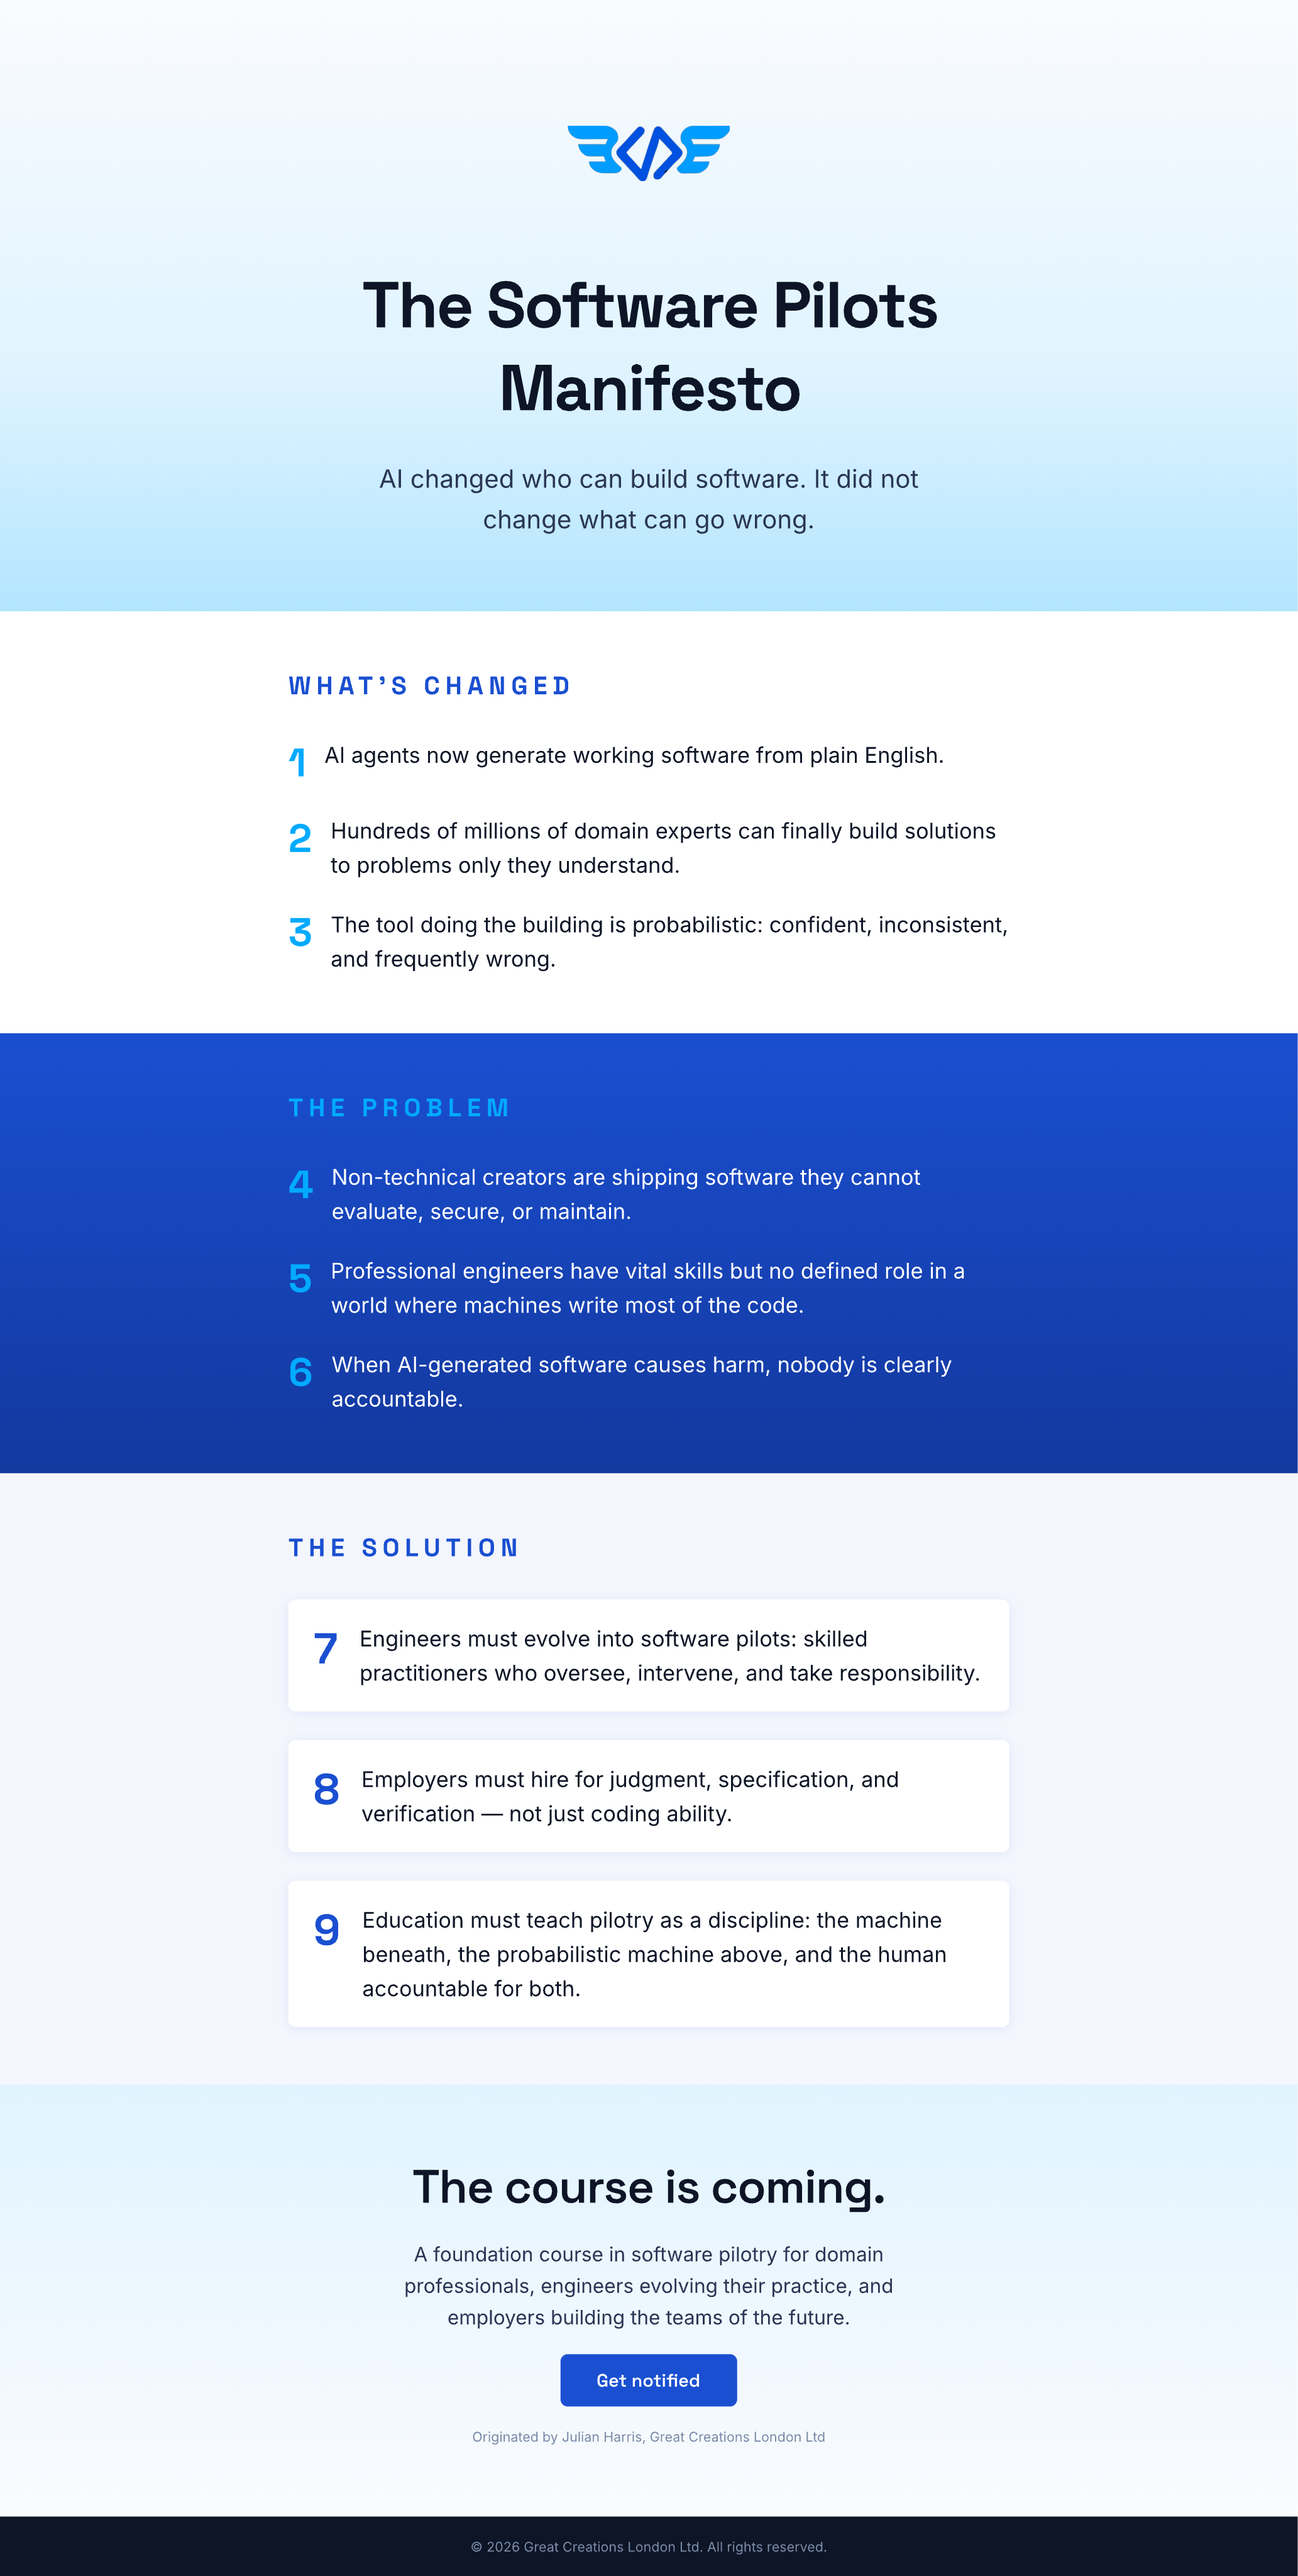
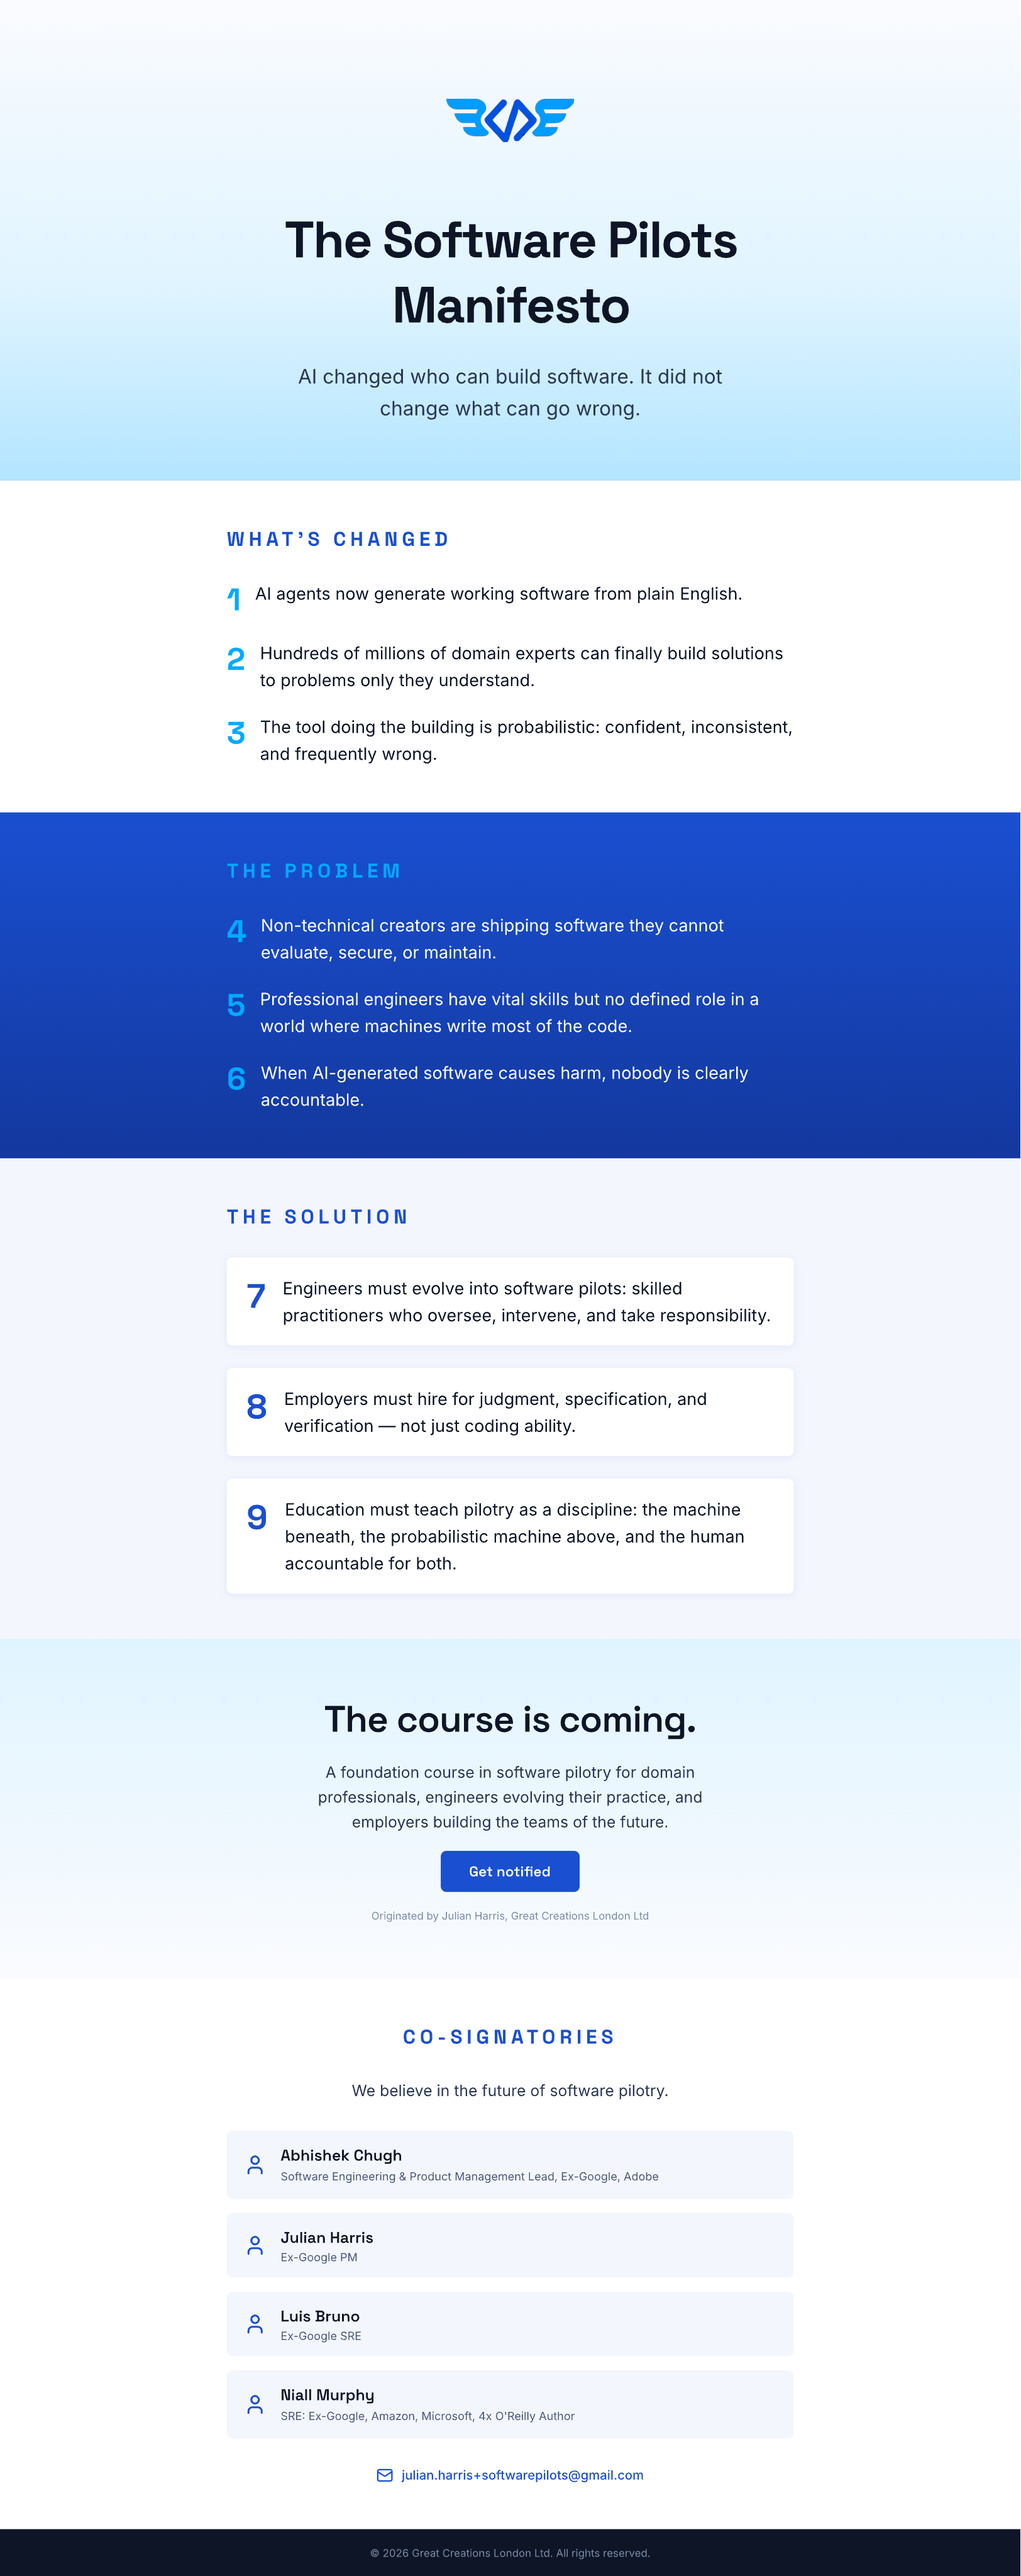
Add co-signatories section, simplify page chrome
- Add co-signatories section with four founding signatories
- Normalize all section numbering to 1-2-3
- Wire Get Notified button to mailto
- Remove footer and origin attribution
- Simplify page title to "Software Pilots"

diff --git a/src/index.html b/src/index.html
@@ -3,9 +3,9 @@
 <head>
   <meta charset="UTF-8">
   <meta name="viewport" content="width=device-width, initial-scale=1.0">
-  <title>Software Pilots — The Manifesto</title>
+  <title>Software Pilots</title>
   <meta name="description" content="Engineers must evolve into software pilots: skilled practitioners who oversee, intervene, and take responsibility for software built by AI agents.">
-  <meta property="og:title" content="Software Pilots — The Manifesto">
+  <meta property="og:title" content="Software Pilots">
   <meta property="og:description" content="AI agents now generate working software from plain English. The question is: who takes responsibility?">
   <meta property="og:type" content="website">
   <meta property="og:image" content="/logo-blue-circle.png">
@@ -44,7 +44,7 @@
       <section class="manifesto-section manifesto-section--brand" id="problem">
         <div class="container">
           <div class="section-label section-label--on-brand">The Problem</div>
-          <ol class="manifesto-points manifesto-points--on-brand" start="4">
+          <ol class="manifesto-points manifesto-points--on-brand">
             <li>People are shipping software they cannot evaluate, secure, or maintain.</li>
             <li>Engineers of all levels have vital skills, but no defined role in a world where machines write most of the code.</li>
             <li>When AI-generated software causes harm, nobody is clearly accountable.</li>
@@ -58,18 +58,45 @@
           <div class="section-label">The Solution</div>
           <div class="solution-cards">
             <div class="solution-card">
-              <span class="solution-num">7</span>
+              <span class="solution-num">1</span>
               <p>Engineers must evolve into <strong>software pilots</strong>: skilled practitioners who oversee, intervene, and take responsibility.</p>
             </div>
             <div class="solution-card">
-              <span class="solution-num">8</span>
+              <span class="solution-num">2</span>
               <p>Employers must hire for good judgment, producing specifications, and ensuring verification: not just coding ability.</p>
             </div>
             <div class="solution-card">
-              <span class="solution-num">9</span>
+              <span class="solution-num">3</span>
               <p>Education must teach pilotry as a discipline: the machine beneath, the probabilistic machine above, and the human accountable for both.</p>
             </div>
           </div>
+        </div>
+      </section>
+
+      <!-- Co-Signatories -->
+      <section class="signatories-section">
+        <div class="container">
+          <div class="section-label" style="text-align:center">Co-Signatories</div>
+          <p class="signatories-intro">We believe in the future of software pilotry.</p>
+          <div class="signatories-list">
+            <div class="signatory-card">
+              <span class="signatory-name">Abhishek Chugh</span>
+              <span class="signatory-role">Software Engineering & Product Management Lead, Ex-Google, Adobe</span>
+            </div>
+            <div class="signatory-card">
+              <span class="signatory-name">Julian Harris</span>
+              <span class="signatory-role">Ex-Google PM</span>
+            </div>
+            <div class="signatory-card">
+              <span class="signatory-name">Luis Bruno</span>
+              <span class="signatory-role">Ex-Google SRE</span>
+            </div>
+            <div class="signatory-card">
+              <span class="signatory-name">Niall Murphy</span>
+              <span class="signatory-role">SRE: Ex-Google, Amazon, Microsoft, 4x O'Reilly Author</span>
+            </div>
+          </div>
+
         </div>
       </section>
 
@@ -78,17 +105,10 @@
         <div class="container">
           <h2 class="cta-title">The course is coming.</h2>
           <p class="cta-text">A foundation course in software pilotry for domain professionals, engineers evolving their practice, and employers building the teams of the future.</p>
-          <a href="#notify" class="btn-brand cta-button">Get notified</a>
-          <p class="cta-origin">Originated by Julian Harris, Great Creations London Ltd</p>
+          <a href="mailto:julian.harris+softwarepilots@gmail.com?subject=Software%20Pilots%20%E2%80%94%20Keep%20me%20posted" class="btn-brand cta-button">Get notified</a>
         </div>
       </section>
     </main>
-
-    <footer class="footer">
-      <div class="container">
-        <p>&copy; 2026 Great Creations London Ltd. All rights reserved.</p>
-      </div>
-    </footer>
   </div>
 </body>
 </html>

diff --git a/src/styles/main.css b/src/styles/main.css
@@ -223,6 +223,69 @@ body {
   color: var(--text-muted);
 }
 
+/* === Co-Signatories === */
+
+.signatories-section {
+  padding: 4rem 0;
+  background-color: #FFFFFF;
+}
+
+.signatories-intro {
+  font-family: 'Inter', var(--font-sans);
+  font-size: clamp(1.125rem, 2vw, 1.375rem);
+  color: var(--text-secondary);
+  text-align: center;
+  margin: 0 0 var(--space-6);
+}
+
+.signatories-list {
+  display: flex;
+  flex-direction: column;
+  gap: var(--space-4);
+  max-width: 40rem;
+  margin: 0 auto var(--space-6);
+}
+
+.signatory-card {
+  display: flex;
+  flex-direction: column;
+  gap: 4px;
+  padding: var(--space-4) var(--space-5);
+  background-color: var(--pilot-50);
+  border-radius: var(--radius-lg);
+}
+
+.signatory-name {
+  font-family: 'Space Grotesk', var(--font-sans);
+  font-size: clamp(1.125rem, 2vw, 1.375rem);
+  font-weight: 600;
+  color: var(--text-primary);
+}
+
+.signatory-role {
+  font-family: 'Inter', var(--font-sans);
+  font-size: 1rem;
+  color: var(--text-tertiary);
+  line-height: 1.5;
+}
+
+.signatories-email {
+  display: flex;
+  align-items: center;
+  justify-content: center;
+  gap: var(--space-3);
+  font-family: 'Inter', var(--font-sans);
+  font-size: 1.125rem;
+  font-weight: 500;
+  color: var(--pilot-blue);
+  text-decoration: none;
+  transition: color var(--duration-normal) var(--easing-default);
+}
+
+.signatories-email:hover {
+  color: var(--pilot-cyan);
+}
+
 /* === Footer === */
 
 .footer {
